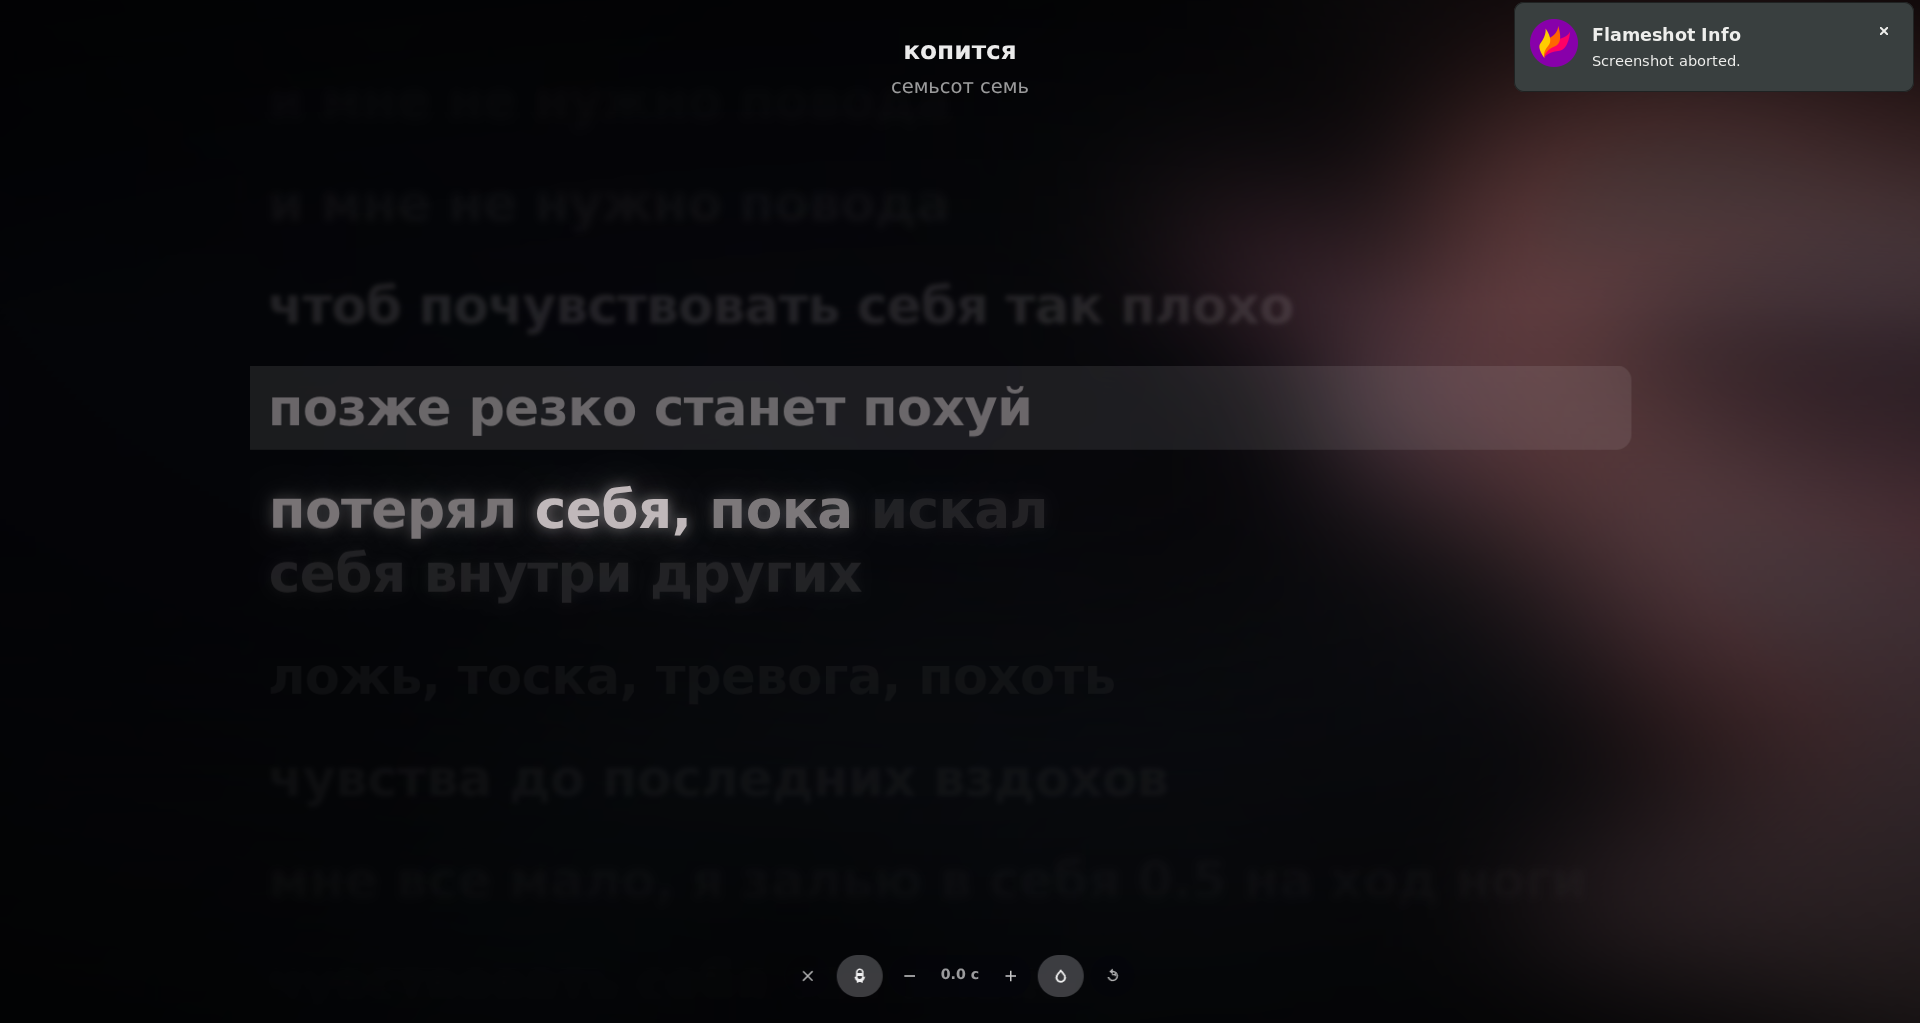
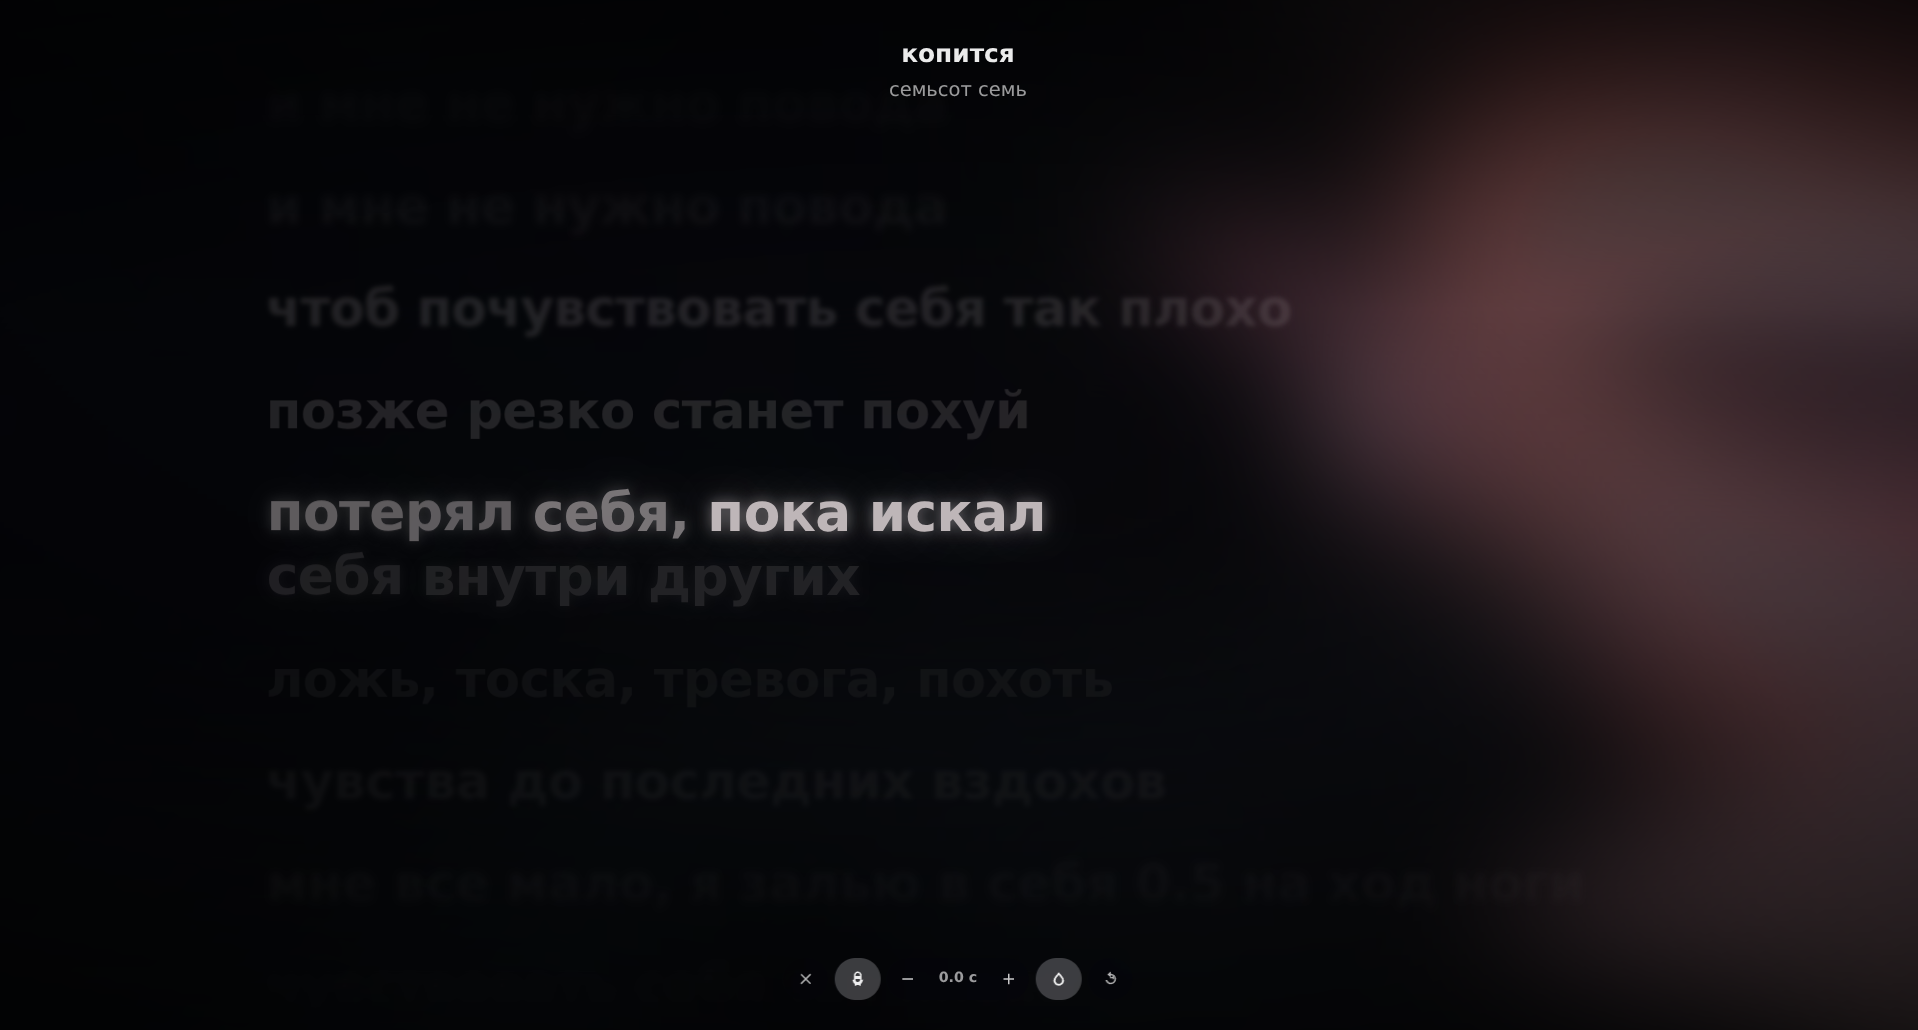
Update images & README.md

diff --git a/README.md b/README.md
@@ -1,0 +1,2 @@
+![Скриншот 1](https://github.com/botcott/YandexLyrics/blob/main/addon/Assets/Images/screenshot1.png)
+![Скриншот 2](https://github.com/botcott/YandexLyrics/blob/main/addon/Assets/Images/screenshot2.png)

diff --git a/addon/README.md b/addon/README.md
@@ -1,0 +1,2 @@
+![Скриншот 1](https://github.com/botcott/YandexLyrics/blob/main/addon/Assets/Images/screenshot1.png)
+![Скриншот 2](https://github.com/botcott/YandexLyrics/blob/main/addon/Assets/Images/screenshot2.png)
